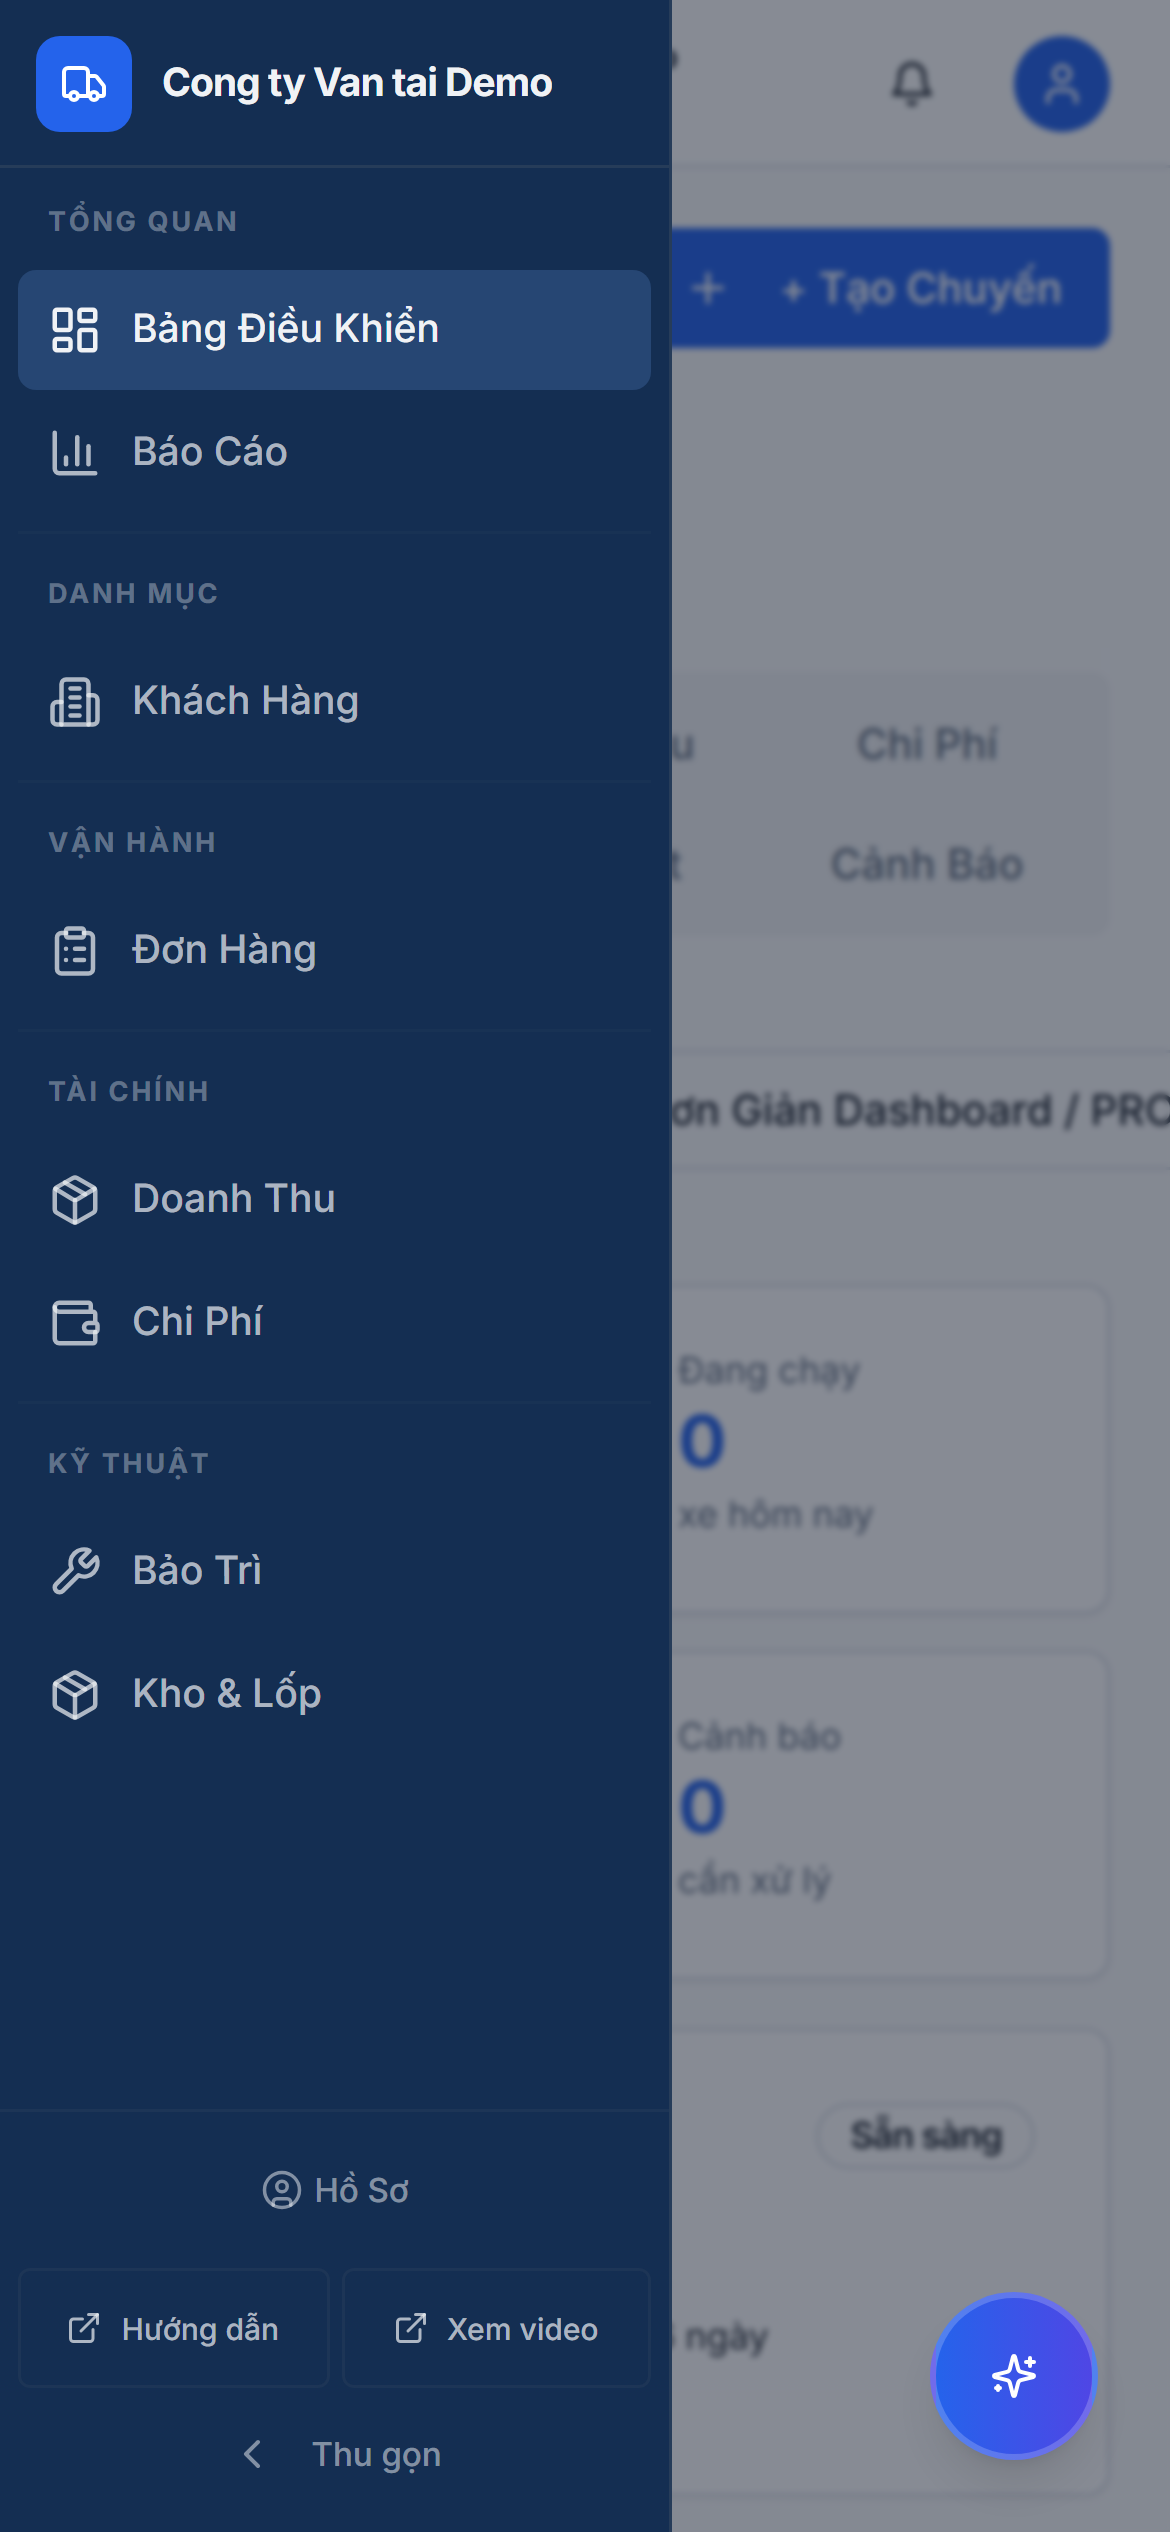
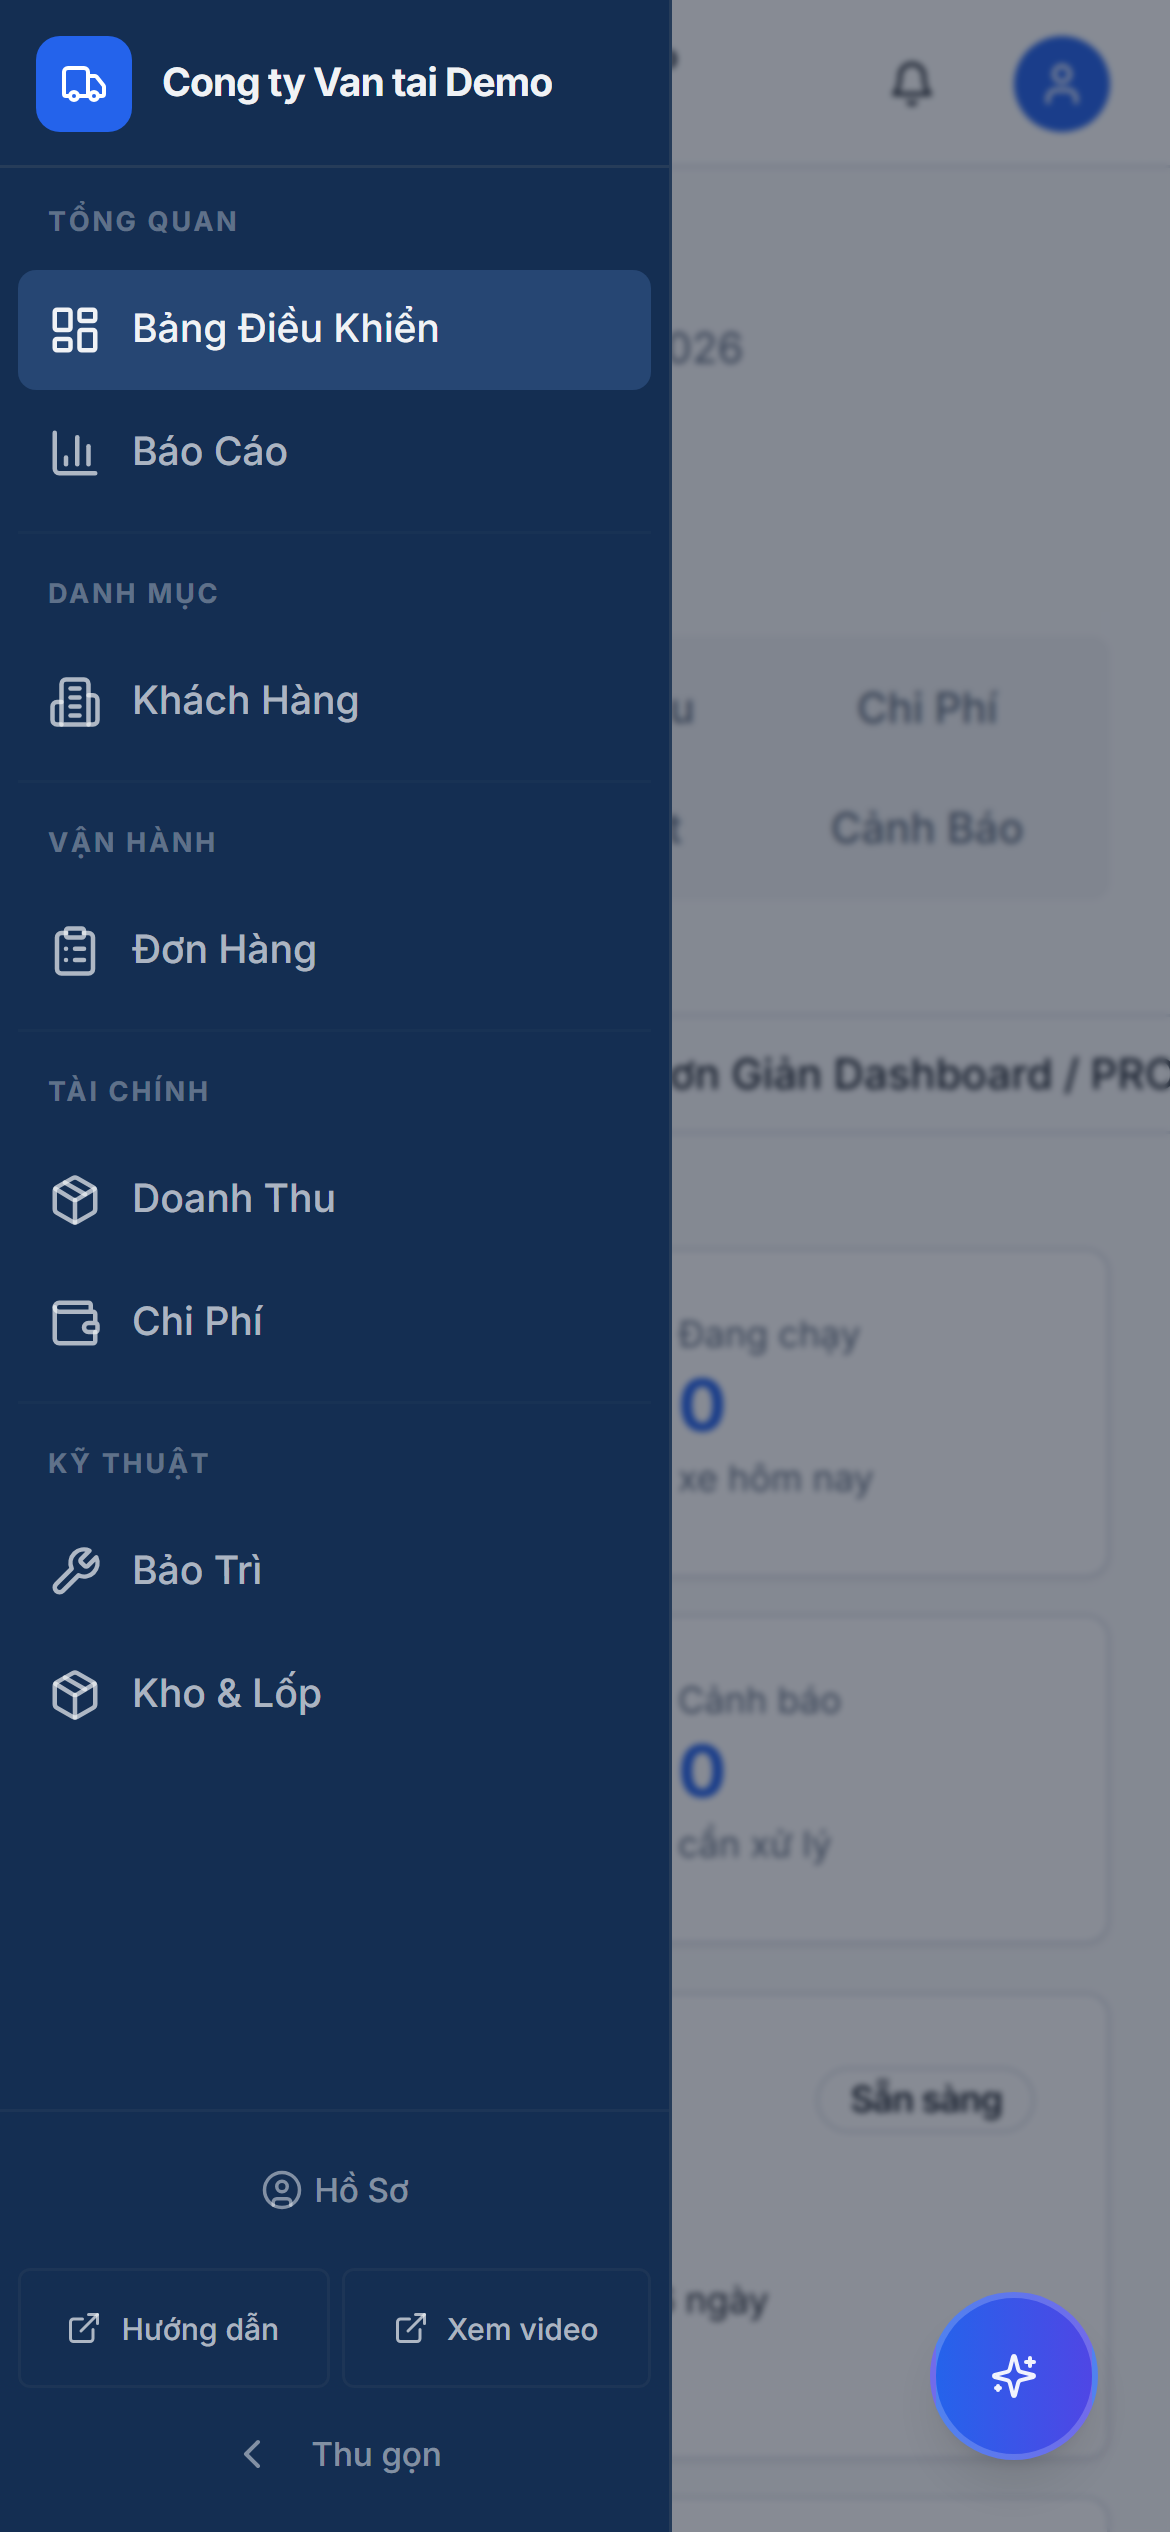
fix: force mobile shell for full-width content on phones

diff --git a/src/components/layout/AppLayout.tsx b/src/components/layout/AppLayout.tsx
@@ -1,4 +1,4 @@
-import { ReactNode, useState } from "react";
+import { ReactNode, useEffect, useMemo, useState } from "react";
 import { AppSidebar } from "./AppSidebar";
 import { AppHeader } from "./AppHeader";
 import { GeminiChat } from "@/components/chat/GeminiChat";
@@ -10,6 +10,29 @@ interface AppLayoutProps {
 
 export function AppLayout({ children }: AppLayoutProps) {
   const [mobileSidebarOpen, setMobileSidebarOpen] = useState(false);
+  const [viewportWidth, setViewportWidth] = useState(() => {
+    if (typeof window === "undefined") return 1280;
+    return window.innerWidth;
+  });
+
+  const isTouchMobileDevice = useMemo(() => {
+    if (typeof navigator === "undefined") return false;
+    return /Android|iPhone|iPad|iPod|Mobile|Windows Phone/i.test(navigator.userAgent);
+  }, []);
+
+  const useMobileShell = viewportWidth < 1024 || isTouchMobileDevice;
+
+  useEffect(() => {
+    const handleResize = () => setViewportWidth(window.innerWidth);
+    window.addEventListener("resize", handleResize);
+    return () => window.removeEventListener("resize", handleResize);
+  }, []);
+
+  useEffect(() => {
+    if (!useMobileShell && mobileSidebarOpen) {
+      setMobileSidebarOpen(false);
+    }
+  }, [useMobileShell, mobileSidebarOpen]);
 
   const closeMobileSidebar = () => setMobileSidebarOpen(false);
 
@@ -17,27 +40,30 @@ export function AppLayout({ children }: AppLayoutProps) {
     <PaywallGuard>
       <div className="flex h-screen overflow-hidden bg-background relative">
         {/* Desktop sidebar */}
-        <div className="hidden lg:block">
+        <div className={useMobileShell ? "hidden" : "block"}>
           <AppSidebar />
         </div>
 
         {/* Mobile sidebar drawer */}
-        {mobileSidebarOpen && (
+        {useMobileShell && mobileSidebarOpen && (
           <button
             type="button"
-            className="fixed inset-0 z-30 bg-slate-900/50 backdrop-blur-[1px] lg:hidden"
+            className="fixed inset-0 z-30 bg-slate-900/50 backdrop-blur-[1px]"
             onClick={closeMobileSidebar}
             aria-label="Đóng menu"
           />
         )}
         <div
-          className={`fixed left-0 top-0 z-40 h-screen transition-transform duration-300 lg:hidden ${mobileSidebarOpen ? "translate-x-0" : "-translate-x-full"}`}
+          className={`fixed left-0 top-0 z-40 h-screen transition-transform duration-300 ${useMobileShell ? "" : "hidden"} ${mobileSidebarOpen ? "translate-x-0" : "-translate-x-full"}`}
         >
           <AppSidebar onNavigate={closeMobileSidebar} />
         </div>
 
         <div className="flex min-w-0 flex-col flex-1 overflow-hidden">
-          <AppHeader onOpenMobileSidebar={() => setMobileSidebarOpen(true)} />
+          <AppHeader
+            onOpenMobileSidebar={() => setMobileSidebarOpen(true)}
+            forceShowMenuButton={useMobileShell}
+          />
           <main className="flex-1 overflow-auto px-3 py-3 sm:px-4 sm:py-4 lg:px-6 lg:py-6">
             {children}
           </main>

diff --git a/src/components/layout/AppHeader.tsx b/src/components/layout/AppHeader.tsx
@@ -16,9 +16,10 @@ import { Badge } from "@/components/ui/badge";
 
 interface AppHeaderProps {
   onOpenMobileSidebar?: () => void;
+  forceShowMenuButton?: boolean;
 }
 
-export function AppHeader({ onOpenMobileSidebar }: AppHeaderProps) {
+export function AppHeader({ onOpenMobileSidebar, forceShowMenuButton = false }: AppHeaderProps) {
   const { user, signOut } = useAuth();
   const navigate = useNavigate();
   const { data: alertsSummary } = useAlertsSummary();
@@ -39,7 +40,7 @@ export function AppHeader({ onOpenMobileSidebar }: AppHeaderProps) {
           type="button"
           variant="ghost"
           size="icon"
-          className="lg:hidden"
+          className={forceShowMenuButton ? "" : "lg:hidden"}
           onClick={onOpenMobileSidebar}
           aria-label="Mở menu"
         >

diff --git a/docs/QA_MOBILE_UI_AUDIT_20260401.md b/docs/QA_MOBILE_UI_AUDIT_20260401.md
@@ -1,4 +1,4 @@
-# QA Mobile UI Audit - All Login Roles (2026-04-01T09:01:43.756Z)
+# QA Mobile UI Audit - All Login Roles (2026-04-01T09:24:07.746Z)
 
 - Base URL: `http://127.0.0.1:5174`
 - Viewport: iPhone 12 profile, 390x844
